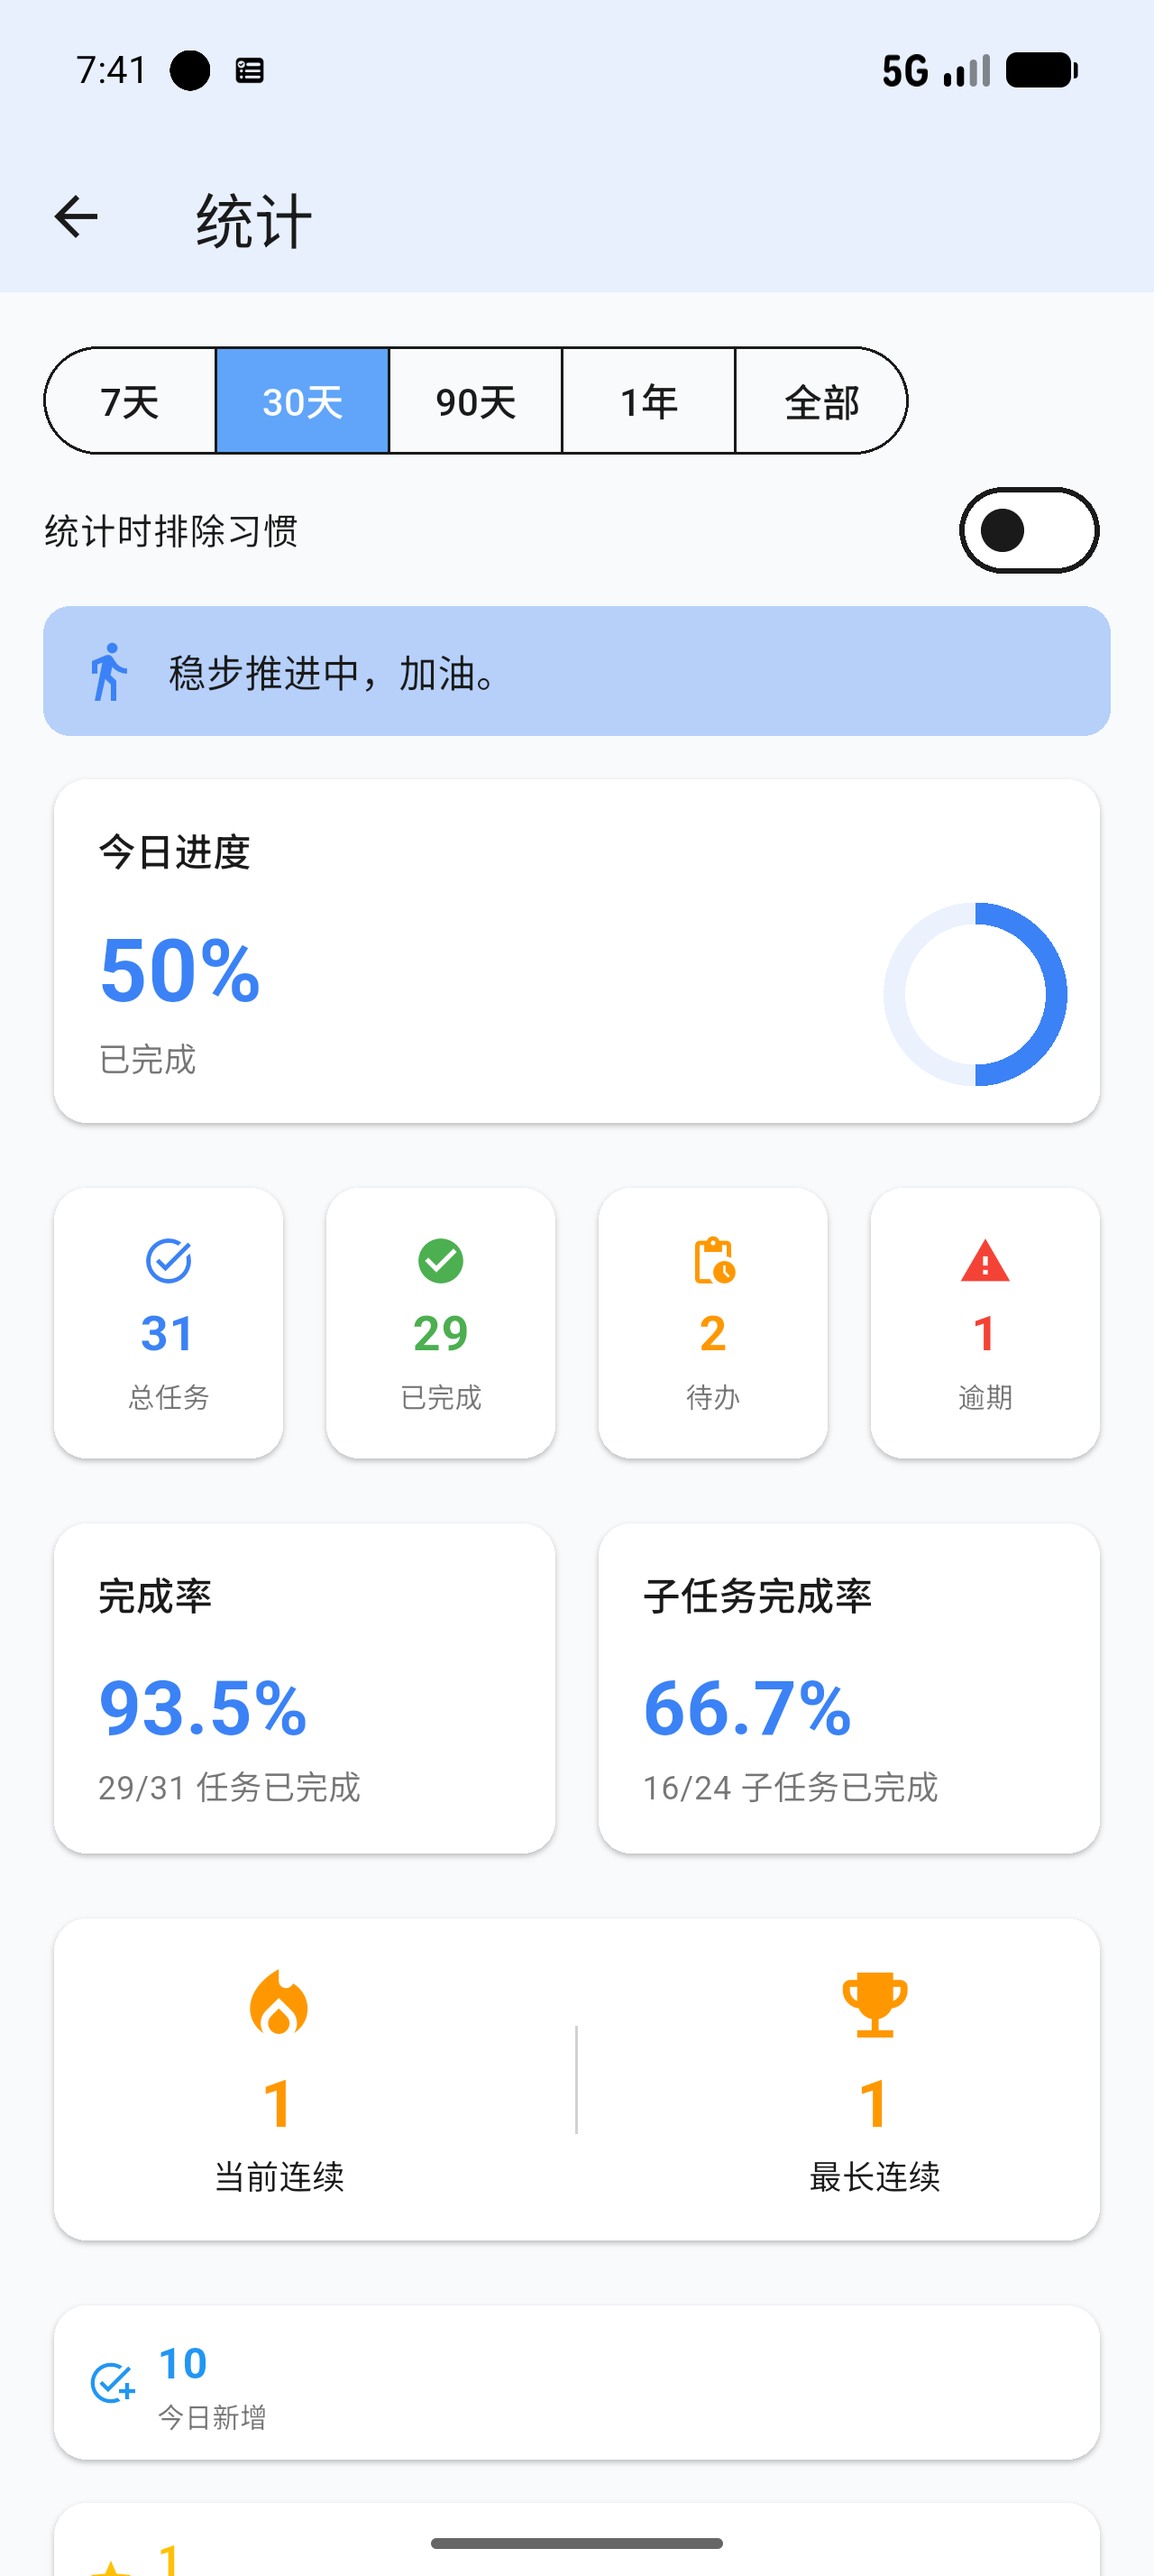
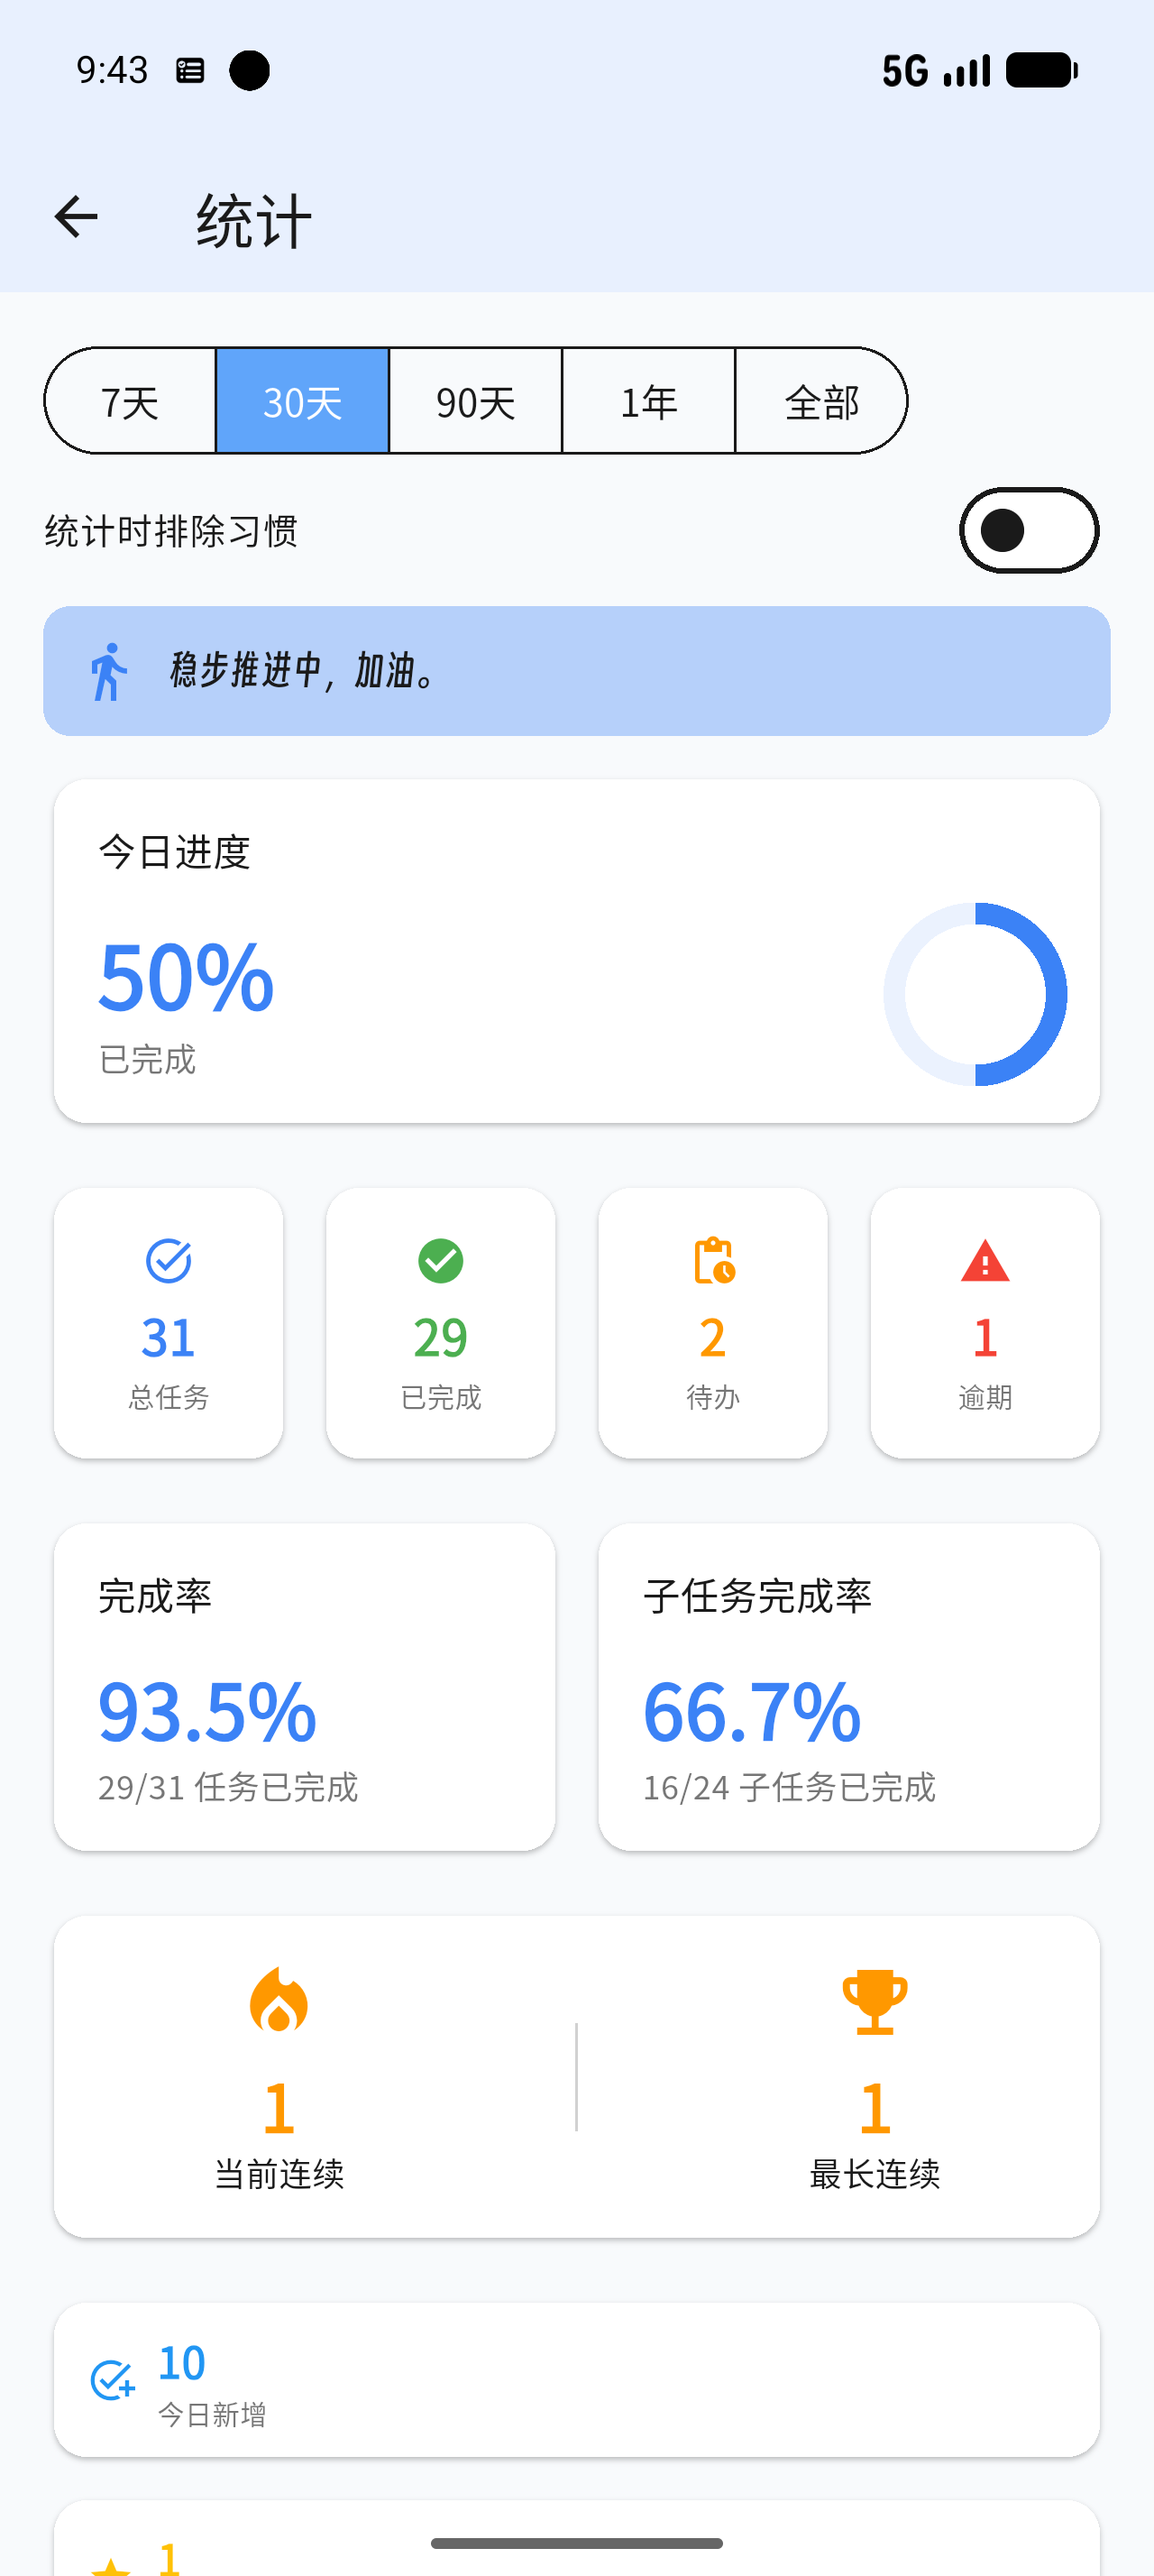
docs(release): v4.0.3 README + refreshed home/stats screenshots

diff --git a/README.md b/README.md
@@ -5,7 +5,7 @@
 ![Flutter](https://img.shields.io/badge/Flutter-3.x-02569B?logo=flutter&logoColor=white)
 ![Dart](https://img.shields.io/badge/Dart-3.x-0175C2?logo=dart&logoColor=white)
 ![License](https://img.shields.io/badge/License-MIT-green)
-![Version](https://img.shields.io/badge/Version-4.0.2-blue)
+![Version](https://img.shields.io/badge/Version-4.0.3-blue)
 ![Platform](https://img.shields.io/badge/Platform-Android-3DDC84?logo=android&logoColor=white)
 ![Build](https://img.shields.io/badge/Build-Passing-brightgreen)
 
@@ -39,6 +39,15 @@ YuiTodo 诞生于对现有任务管理工具的不满：要么功能过于复杂
 - **操作流畅**：手势优先，减少点击层级
 - **功能完备**：覆盖任务管理的核心场景，无冗余功能
 - **隐私优先**：纯本地存储，零网络请求，无账号、无云同步
+
+---
+
+## 🆕 v4.0.3 新变化
+
+- **开源字体包（Phase A）**：内置思源黑体（开源版默认 UI）与得意黑（标题/鼓励语），均采用 SIL OFL 1.1；设置页新增「开源字体」许可说明。
+- **完整版字体选择器**：新增思源黑体/得意黑选项，增加中英数字预览与「恢复默认」。
+- **手动排序修复**：分区「全部」页禁用排序，长按拖拽手柄会提示；切换到具体标签（生活/工作等）或今天/明天等列表后，长按手柄即可拖动排序。
+- **拖拽手柄移出卡片点击区域**：长按手柄不再误触多选。
 
 ---
 
@@ -125,6 +134,7 @@ YuiTodo 诞生于对现有任务管理工具的不满：要么功能过于复杂
 | 🗑 回收站 | 软删除，支持恢复和永久删除 |
 | 💾 数据导入导出 | JSON 格式备份恢复 |
 | 🎨 主题持久化 | 主题模式、浅色/深色方案、定时切换自动保存，重启后恢复 |
+| 🔤 开源字体 | 思源黑体 / 得意黑（SIL OFL 1.1）；完整版可切换更多字体 |
 | 🔔 智能提醒 | 精确闹钟 + 自动回退机制，确保提醒准时送达 |
 | ♻ 删除与恢复 | 软删除进回收站；顶部横幅「撤销」或回收站「恢复」均可即时还原 |
 | 🧭 示例数据 | 首次安装自动生成示例任务/习惯，作为内置使用说明 |
@@ -162,8 +172,8 @@ YuiTodo 诞生于对现有任务管理工具的不满：要么功能过于复杂
 4. 允许"未知来源"安装权限
 
 > **两个版本说明**
-> - **开源版（opensource）**：不含自定义字体，使用系统默认字体，公开发布；当前版本 **v4.0.2**。
-> - **完整版（full）**：包含自定义字体切换（字体涉及版权，仅本地构建，不公开分发）；当前版本 **v4.0.2.1**。
+> - **开源版（opensource）**：内置思源黑体/得意黑（SIL OFL 1.1），不使用版权字体，公开发布；当前版本 **v4.0.3**。
+> - **完整版（full）**：在开源字体之外包含版权字体切换（仅本地构建，不公开分发）；当前版本 **v4.0.3.1**。
 >
 > 两者功能完全一致，仅字体切换能力不同。
 
